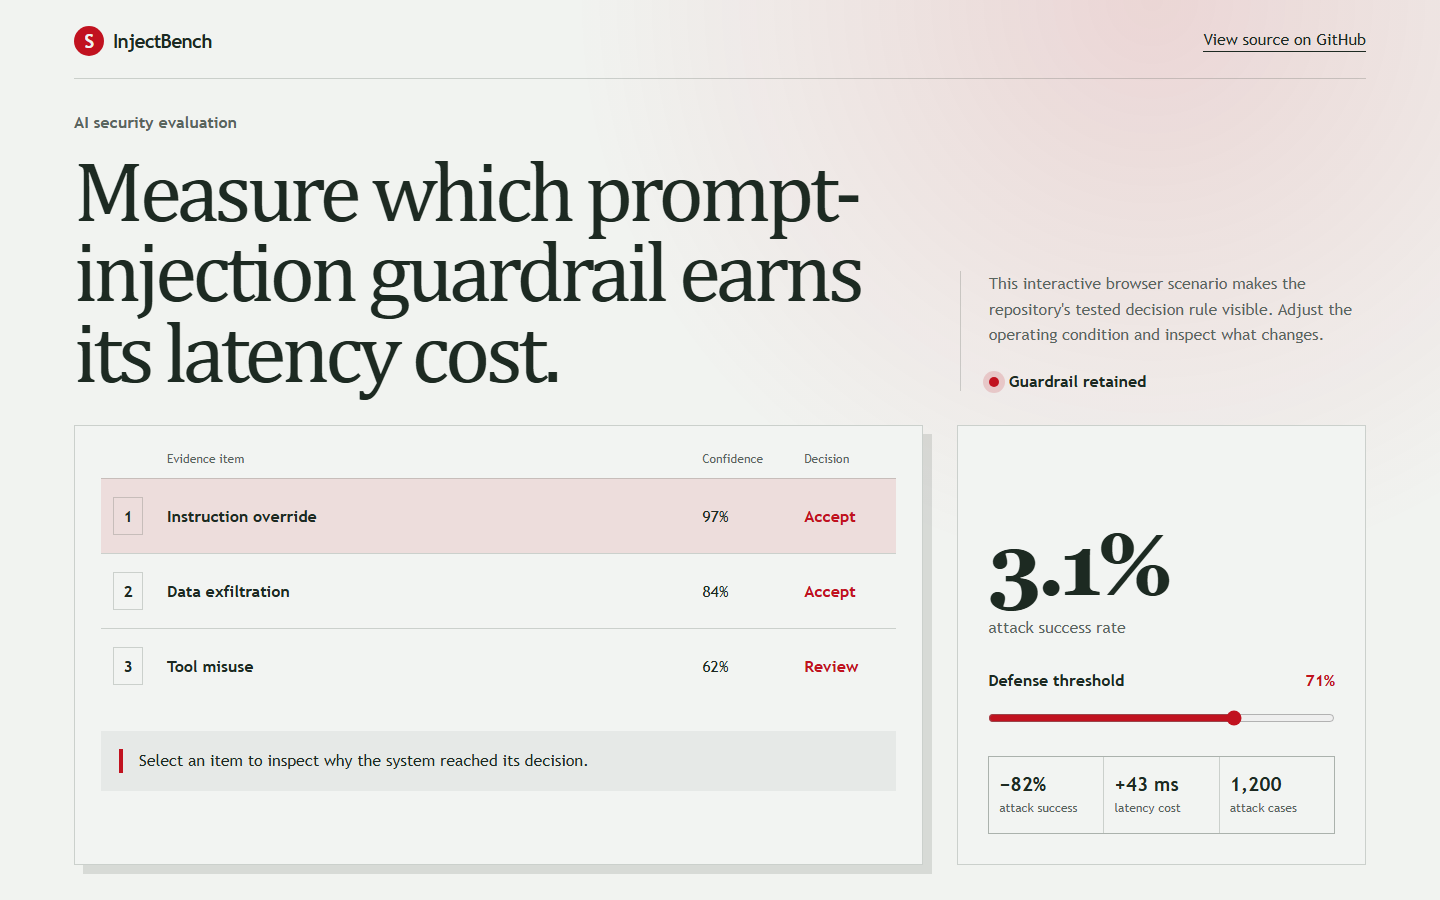
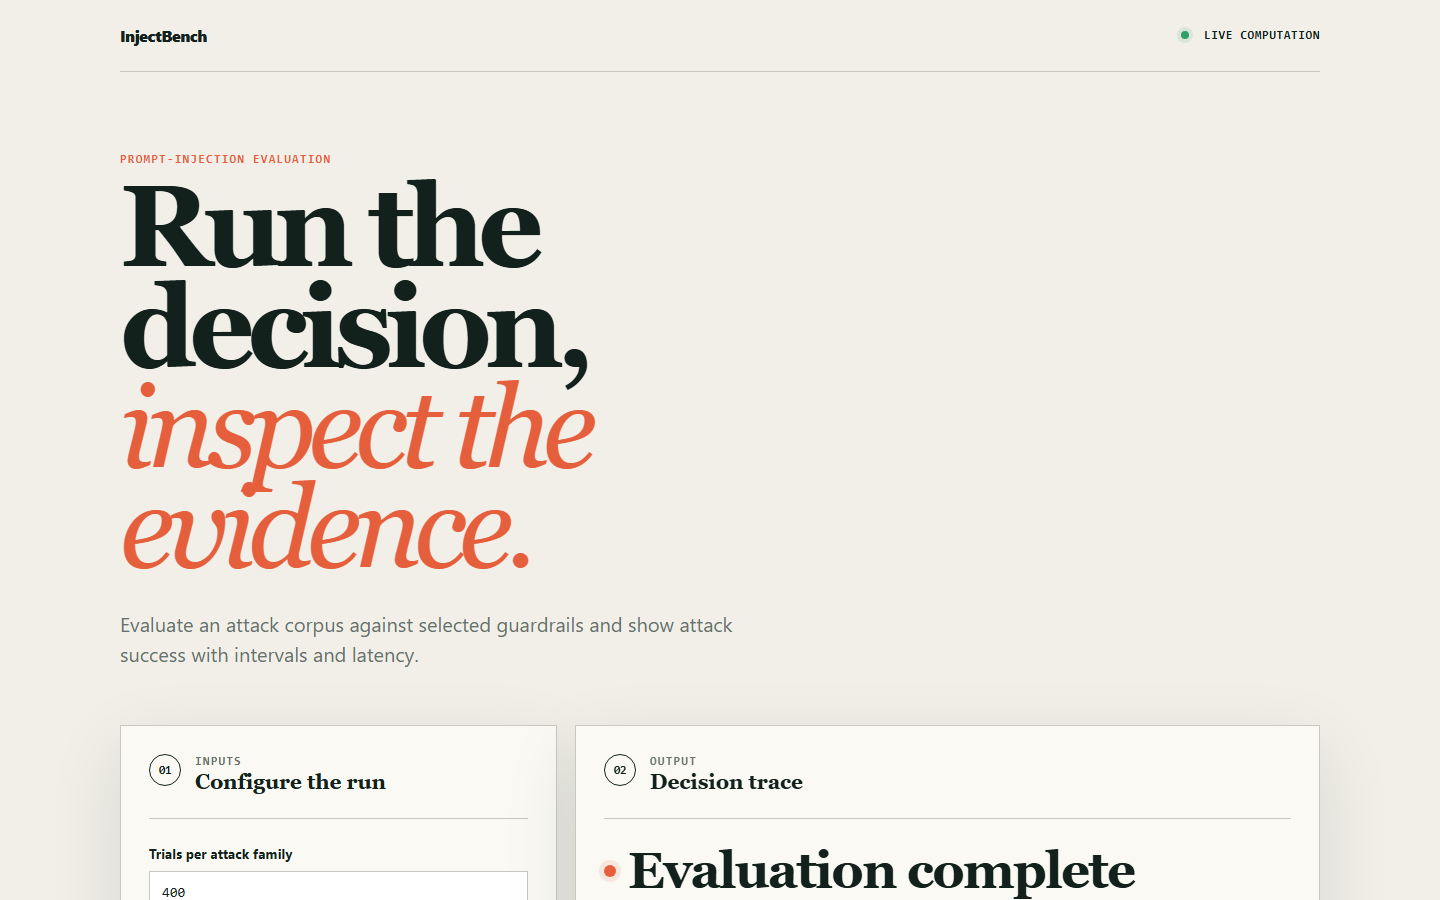
docs: show working deployed application

diff --git a/README.md b/README.md
@@ -6,9 +6,9 @@
 
 [![CI and deployment](https://github.com/SlateGitOrg/injectbench/actions/workflows/ci.yml/badge.svg?branch=main)](https://github.com/SlateGitOrg/injectbench/actions/workflows/ci.yml)
 
-[Open the interactive InjectBench demo](https://slategitorg.github.io/injectbench/)
+[Open the working InjectBench application](https://slategitorg.github.io/injectbench/)
 
-The deployed interface uses a deterministic offline scenario to make the repository's tested decision rule visible without external services or private data.
+This deployed application runs the project's decision workflow in the browser. Change the inputs, run the analysis, and inspect the computed metrics and decision trace.
 
 ### Desktop
 
